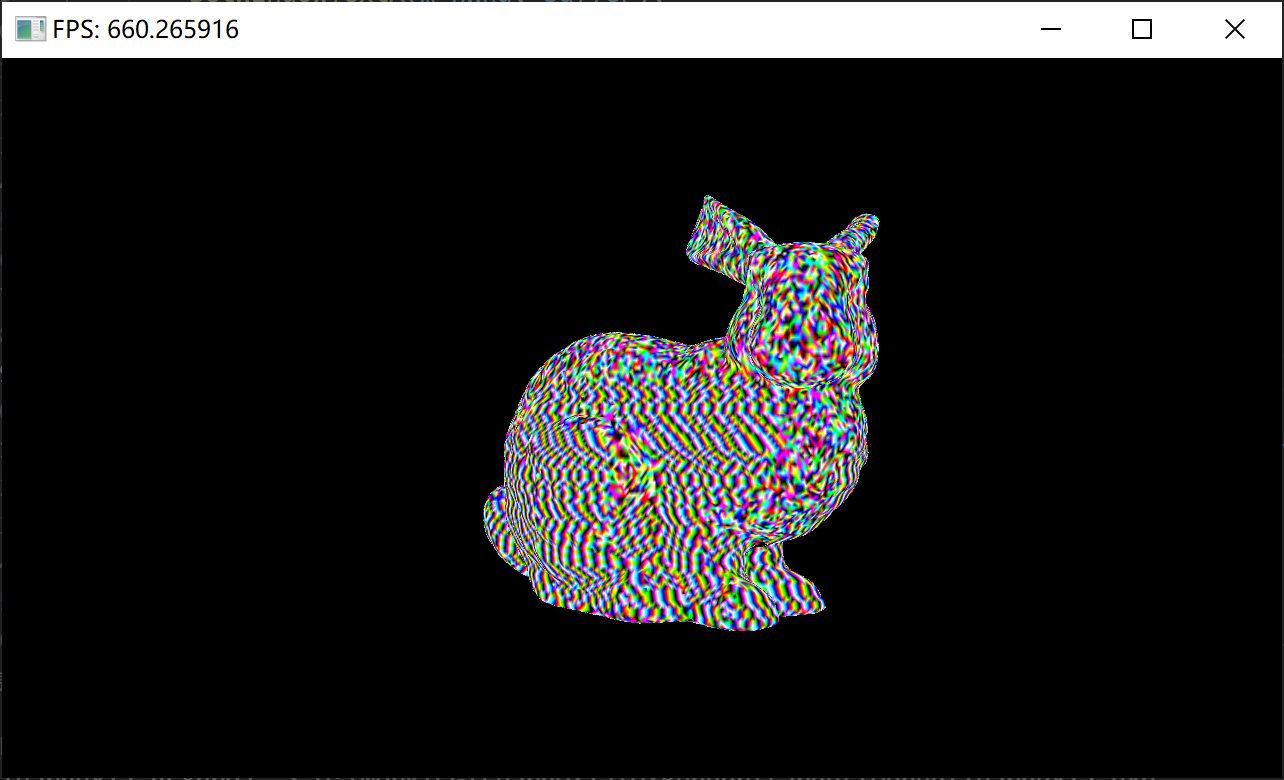
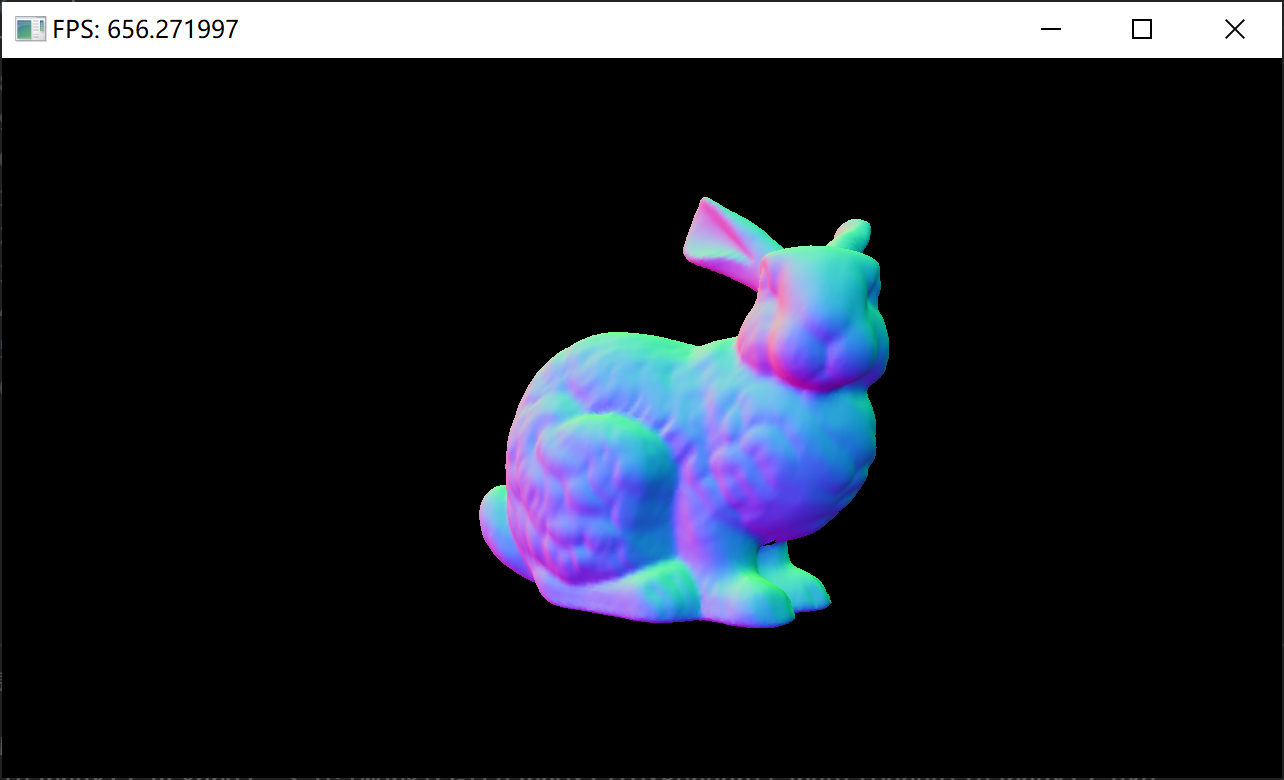
add bunny normal color

Changed region(s): [[0.3738, 0.2462, 0.7165, 0.8308], [0.0935, 0.0, 0.1869, 0.0615]]

diff --git a/DXRender/src/Model.cpp b/DXRender/src/Model.cpp
@@ -24,6 +24,8 @@ Model::Model(std::wstring model_name) noexcept
     happly::PLYData plyIn(to_byte_string(Model::GetModelFullPath(model_name)));
     SetVertices(plyIn.getVertexPositions());
     SetIndicies(plyIn.getFaceIndices<uint32_t>());
+
+    CalculateVertexNormal();
 }
 
 Model::~Model()
@@ -33,16 +35,7 @@ Model::~Model()
     m_vertices = nullptr;
     m_indicies = nullptr;
 }
-static Vertex g_Vertices[8] = {
-    { XMFLOAT3(.0f, .0f, .0f), XMFLOAT4(0.0f, 0.0f, 0.0f, 1.0f) }, // 0
-    { XMFLOAT3(.0f, .0f, 1.0f), XMFLOAT4(0.0f, 1.0f, 0.0f, 1.0f) }, // 1
-    { XMFLOAT3(.0f, 1.0f, 1.0f), XMFLOAT4(1.0f, 1.0f, 0.0f, 1.0f) }, // 2
-    { XMFLOAT3(.0f, 1.0f, .0f), XMFLOAT4(1.0f, 0.0f, 0.0f, 1.0f) }, // 3
-    { XMFLOAT3(1.0f, .0f, .0f), XMFLOAT4(0.0f, 0.0f, 1.0f, 1.0f) }, // 4
-    { XMFLOAT3(1.0f, .0f, 1.0f), XMFLOAT4(0.0f, 1.0f, 1.0f, 1.0f) }, // 5
-    { XMFLOAT3(1.0f, 1.0f, 1.0f), XMFLOAT4(1.0f, 1.0f, 1.0f, 1.0f) }, // 6
-    { XMFLOAT3(1.0f, 1.0f, .0f), XMFLOAT4(1.0f, 0.0f, 1.0f, 1.0f) }  // 7
-};
+
 void Model::SetVertices(std::vector<std::array<double, 3>>& positions)
 {
     if (m_vertices)
@@ -56,8 +49,9 @@ void Model::SetVertices(std::vector<std::array<double, 3>>& positions)
     for (int i = 0; i < m_numVertices; ++i)
     {
         m_vertices[i] = Vertex{
-            XMFLOAT3(positions[i][0], positions[i][1], positions[i][2]),
-            g_Vertices[(i%8)].color
+            XMFLOAT3(positions[i][0], positions[i][1], positions[i][2]), // position
+            XMFLOAT3(0.f, 0.f, 0.f),                                     // normal
+            // XMFLOAT4(1.f, 1.f, 1.f, 1.f),                                // color
         };
     }
 }
@@ -105,6 +99,52 @@ void Model::SetIndicies(std::vector<std::vector<uint32_t>>& faces)
     for (int i = 0; i < m_numIndicies; ++i) 
     {
         m_indicies[i] = indicies[i];
+    }
+}
+
+static DirectX::XMVECTOR operator-(const DirectX::XMFLOAT3& A, const DirectX::XMFLOAT3& B)
+{
+    return DirectX::XMVectorSet(A.x - B.x, A.y - B.y, A.z - B.z, 0.f);
+}
+// static inline DirectX::XMVECTOR DXCross(const DirectX::XMVECTOR& v1, const DirectX::XMVECTOR& v2)
+// {
+//     auto XMV1 = XMLoadFloat3(&v1);
+//     auto XMV2 = XMLoadFloat3(&v2);
+//     auto XMRet = XMVector3Cross(XMV1, XMV2);
+//     DirectX::XMFLOAT3 ret;
+//     XMStoreFloat3(&ret, XMRet);
+//     return ret; 
+// }
+static DirectX::XMFLOAT3 operator+=(DirectX::XMFLOAT3& a, const DirectX::XMFLOAT3& b)
+{
+    a.x += b.x;
+    a.y += b.y;
+    a.z += b.z;
+    return a;
+}
+
+void Model::CalculateVertexNormal()
+{
+    for (int i = 0; i + 2 < m_numIndicies; i += 3)
+    {
+        auto A = m_vertices[m_indicies[i    ]].position;
+        auto B = m_vertices[m_indicies[i + 1]].position;
+        auto C = m_vertices[m_indicies[i + 2]].position;
+        auto AB = B - A;
+        auto AC = C - A;
+
+        DirectX::XMFLOAT3 normal;
+        XMStoreFloat3(&normal, XMVector3Cross(AB, AC));
+
+        m_vertices[m_indicies[i    ]].normal += normal;
+        m_vertices[m_indicies[i + 1]].normal += normal;
+        m_vertices[m_indicies[i + 2]].normal += normal;
+    }
+
+    for (int i = 0; i < m_numVertices; ++i)
+    {
+        auto ret = XMVector3Normalize(XMLoadFloat3(&m_vertices[i].normal));
+        XMStoreFloat3(&m_vertices[i].normal, ret);
     }
 }
 

diff --git a/DXRender/src/DXWindow.cpp b/DXRender/src/DXWindow.cpp
@@ -180,26 +180,11 @@ void DXWindow::LoadAssets()
 
         D3D12_INPUT_ELEMENT_DESC inputElementDescs[] =
         {
-            { "POSITION", 0, DXGI_FORMAT_R32G32B32_FLOAT, 0, D3D12_APPEND_ALIGNED_ELEMENT, D3D12_INPUT_CLASSIFICATION_PER_VERTEX_DATA, 0 },
-            { "COLOR", 0, DXGI_FORMAT_R32G32B32A32_FLOAT, 0, D3D12_APPEND_ALIGNED_ELEMENT, D3D12_INPUT_CLASSIFICATION_PER_VERTEX_DATA, 0 }
+            { "POSITION", 0, DXGI_FORMAT_R32G32B32_FLOAT, 0, 0, D3D12_INPUT_CLASSIFICATION_PER_VERTEX_DATA, 0 },
+            { "NORMAL", 0, DXGI_FORMAT_R32G32B32_FLOAT, 0, 12, D3D12_INPUT_CLASSIFICATION_PER_VERTEX_DATA, 0 },
+            // { "COLOR", 0, DXGI_FORMAT_R32G32B32A32_FLOAT, 0, 24, D3D12_INPUT_CLASSIFICATION_PER_VERTEX_DATA, 0 }
         };
 
-        // Describe and create the graphics pipeline state object (PSO).
-        // D3D12_GRAPHICS_PIPELINE_STATE_DESC psoDesc = {};
-        // psoDesc.InputLayout = { inputElementDescs, _countof(inputElementDescs) };
-        // psoDesc.pRootSignature = m_RootSignature.Get();
-        // psoDesc.VS = CD3DX12_SHADER_BYTECODE(vertexShader.Get());
-        // psoDesc.PS = CD3DX12_SHADER_BYTECODE(pixelShader.Get());
-        // psoDesc.RasterizerState = CD3DX12_RASTERIZER_DESC(D3D12_DEFAULT);
-        // psoDesc.BlendState = CD3DX12_BLEND_DESC(D3D12_DEFAULT);
-        // psoDesc.DepthStencilState.DepthEnable = FALSE;
-        // psoDesc.DepthStencilState.StencilEnable = FALSE;
-        // psoDesc.SampleMask = UINT_MAX;
-        // psoDesc.PrimitiveTopologyType = D3D12_PRIMITIVE_TOPOLOGY_TYPE_TRIANGLE;
-        // psoDesc.NumRenderTargets = 1;
-        // psoDesc.RTVFormats[0] = DXGI_FORMAT_R8G8B8A8_UNORM;
-        // psoDesc.SampleDesc.Count = 1;
-        // ThrowIfFailed(m_device->CreateGraphicsPipelineState(&psoDesc, IID_PPV_ARGS(&m_PipelineState)));
         struct PipelineStateStream
         {
             CD3DX12_PIPELINE_STATE_STREAM_ROOT_SIGNATURE pRootSignature;

diff --git a/DXRender/include/Model.h b/DXRender/include/Model.h
@@ -10,7 +10,8 @@ using namespace DirectX;
 struct Vertex
 {
     XMFLOAT3 position;
-    XMFLOAT4 color;
+    XMFLOAT3 normal;
+    // XMFLOAT4 color;
 };
 
 class Model
@@ -23,6 +24,7 @@ private:
 
     void SetVertices(std::vector<std::array<double, 3>>&);
     void SetIndicies(std::vector<std::vector<uint32_t>>&);
+    void CalculateVertexNormal();
 
 public:
     static std::wstring GetModelFullPath(std::wstring model_name);
